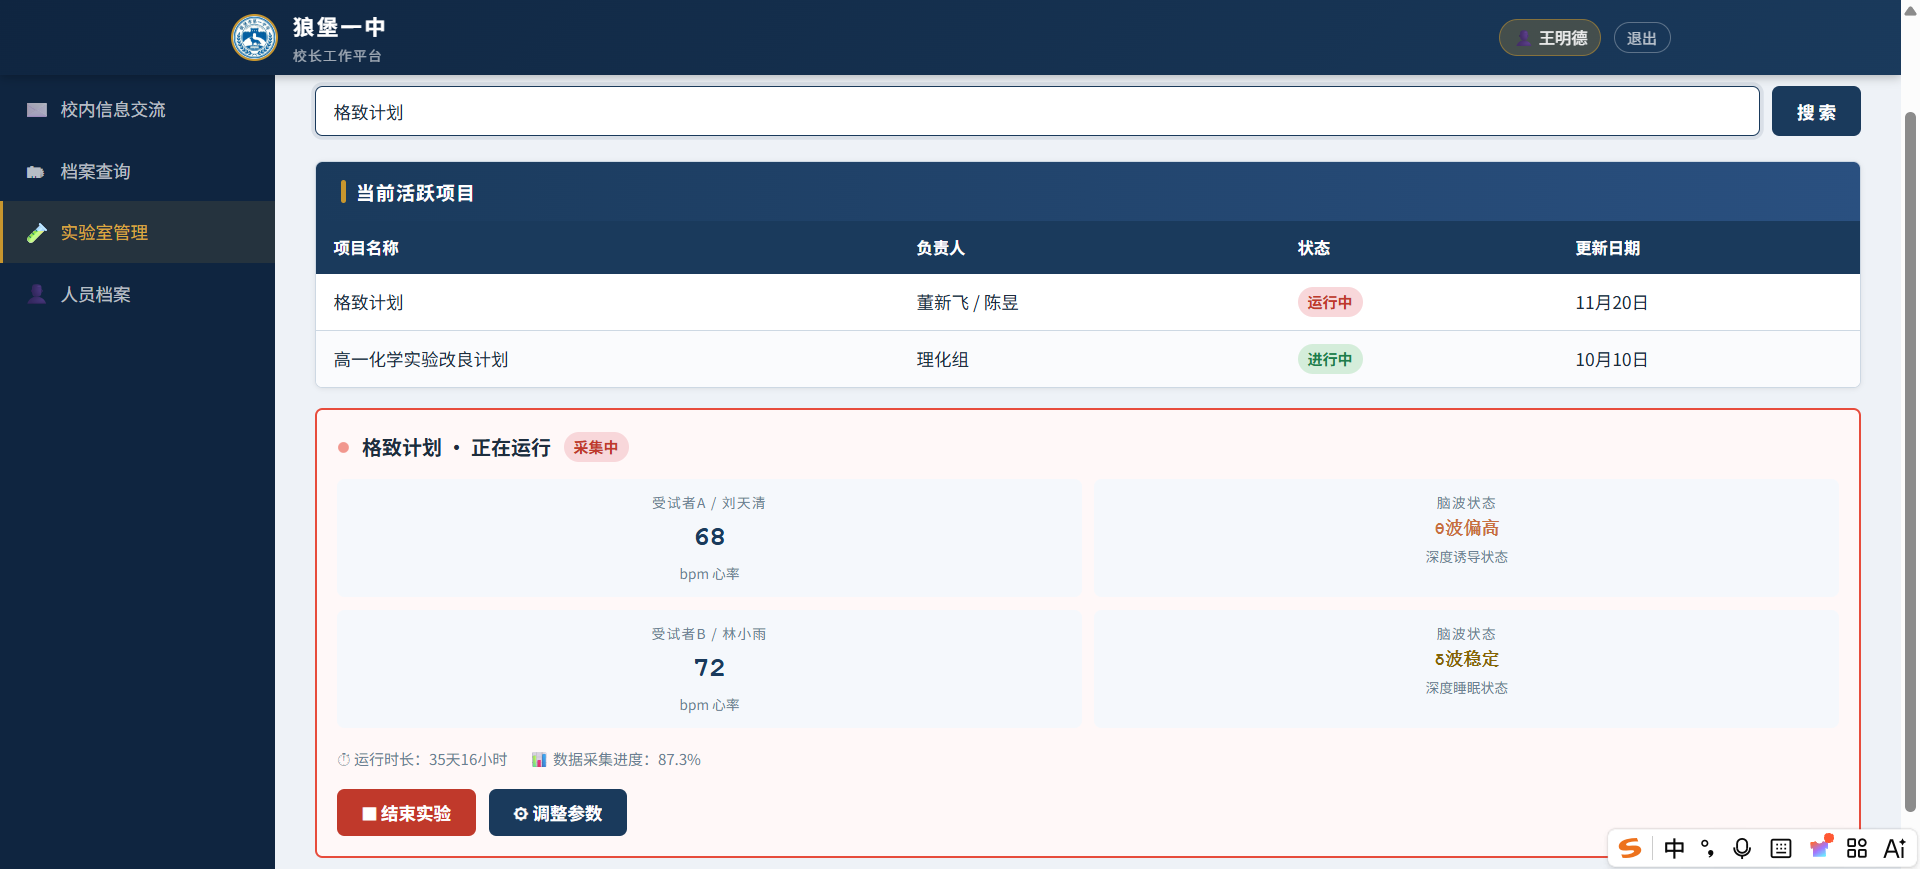
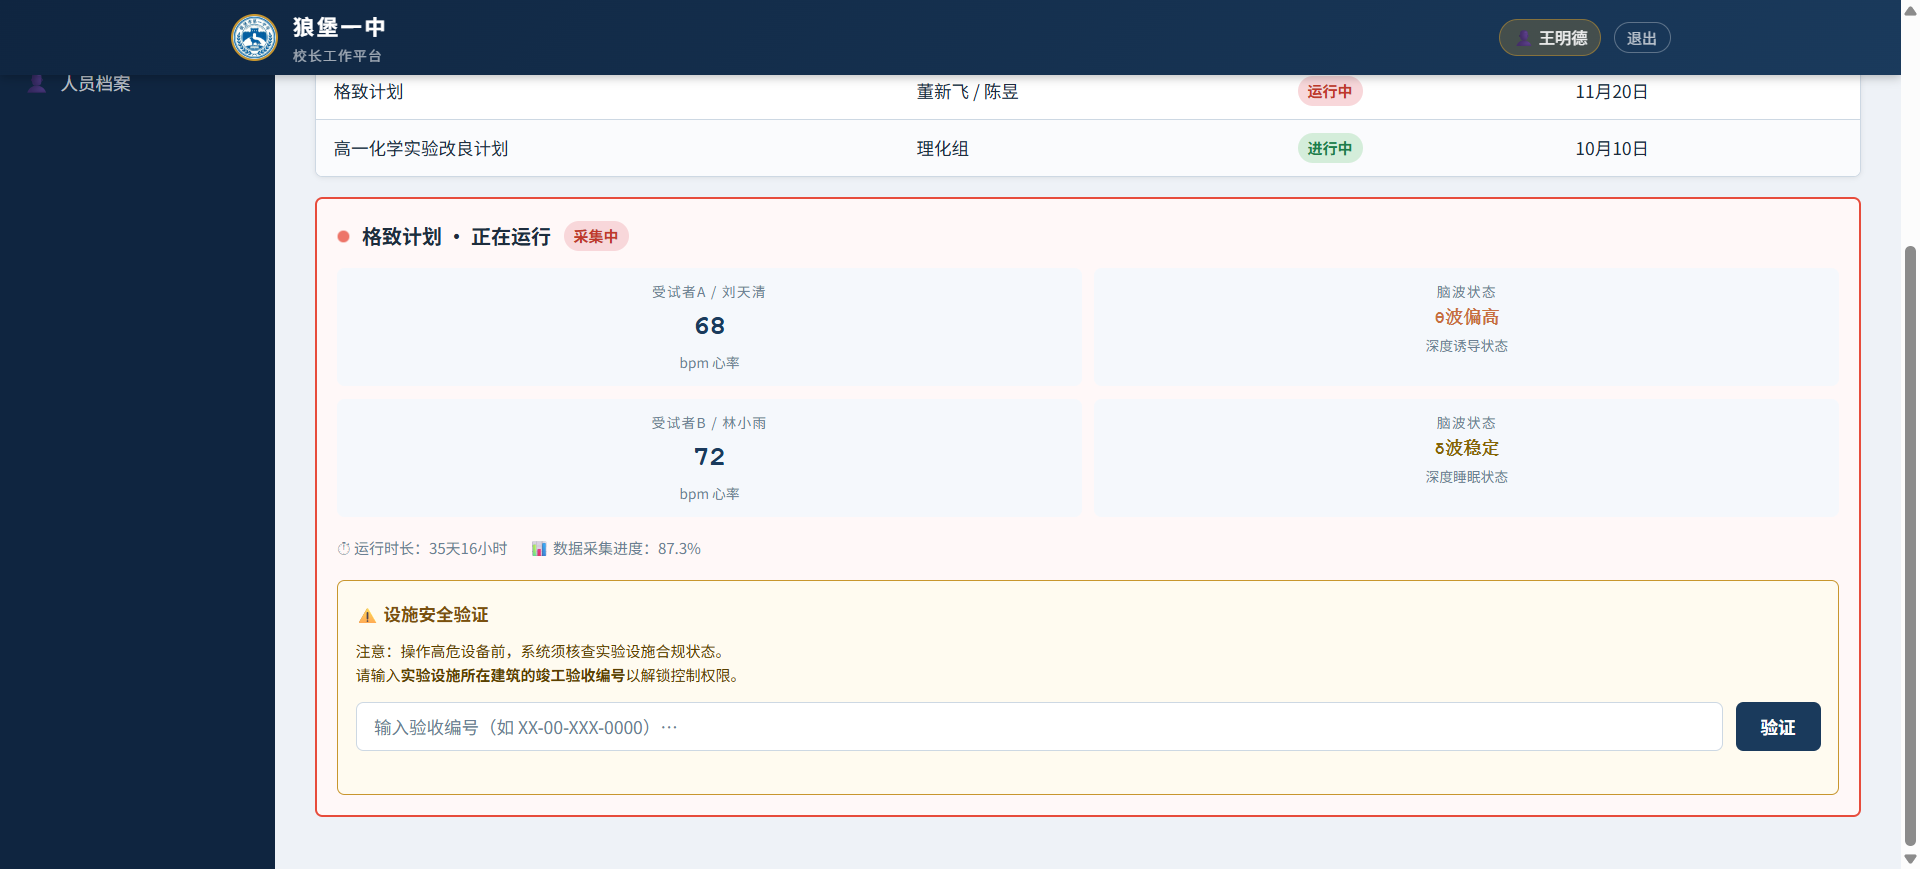
更改编号位置

diff --git a/js/library.js b/js/library.js
@@ -280,6 +280,7 @@ const ARCHIVE_DB = {
     year: "1997年",
     type: "建筑图纸 / 工程档案",
     condition: "纸质原件已数字化扫描，原件存于B1档案室",
+    acceptanceNo: "LB-97-EXP-0312",
     note: "本图纸为1997年竣工验收版本，含地面层（1F）及地下层（B1）完整平面布局。1998年后仅有局部设备更新记录，整体结构未变。",
     svg: true
   }
@@ -385,8 +386,6 @@ function ARCHIVE_SVG() {
         <text x="30" y="15" font-size="11" fill="#1a3a5c" font-weight="700">1F 地面层</text>
         <!-- 指北针 -->
         <text x="618" y="14" font-size="10" fill="#888">N↑</text>
-        <!-- 竣工验收编号 -->
-        <text x="618" y="26" font-size="9" fill="#888" text-anchor="end" font-family="monospace">竣工验收编号: LB-97-EXP-0312</text>
 
         <!-- 门（主入口） -->
         <rect x="295" y="218" width="50" height="4" fill="#555" rx="1"/>
@@ -471,8 +470,6 @@ function ARCHIVE_SVG() {
         <!-- 楼层标注 -->
         <text x="30" y="12" font-size="11" fill="#1a3a5c" font-weight="700">B1 地下层</text>
         <text x="618" y="12" font-size="10" fill="#888">N↑</text>
-        <!-- 竣工验收编号 -->
-        <text x="618" y="24" font-size="9" fill="#888" text-anchor="end" font-family="monospace">竣工验收编号: LB-97-EXP-0312</text>
 
         <!-- 红色标注线：楼梯B → B203 路径 -->
         <path d="M 165 205 L 165 210 L 300 210 L 300 195" fill="none" stroke="#c0392b" stroke-width="1.5" stroke-dasharray="6 3" opacity="0.6"/>
@@ -525,6 +522,7 @@ document.addEventListener("DOMContentLoaded", () => {
             <tr><th>归档年份</th><td>${a.year}</td></tr>
             <tr><th>档案类型</th><td>${a.type}</td></tr>
             <tr><th>存档状态</th><td>${a.condition}</td></tr>
+            ${a.acceptanceNo ? `<tr><th>验收编号</th><td class="text-mono" style="font-weight:600;color:#c0392b">${a.acceptanceNo}</td></tr>` : ""}
             <tr><th>说明</th><td style="font-size:13px;color:#555">${a.note}</td></tr>
           </table>
         </div>

diff --git a/js/principal.js b/js/principal.js
@@ -47,7 +47,7 @@ const PRINCIPAL_ARCHIVE_CONTENT = `
 
     <h3 style="color:#1a3a5c;margin:20px 0 8px">二、控制台操作说明</h3>
     <p style="font-size:13px;color:#6b7f93;line-height:1.9">
-      前往「实验室管理」→ 搜索「格致」→ 点击「调整参数」→ 输入参数 → 确认执行。<br>
+      前往「实验室管理」→ 搜索「格致」→ 输入「旧实验楼竣工验收编号」→  点击「调整参数」→ 输入参数 → 确认执行。<br>
       或点击「结束实验」强制中止（不推荐，后果不可逆）。
     </p>
   </div>

diff --git a/docs/攻略/详细攻略.md b/docs/攻略/详细攻略.md
@@ -144,7 +144,7 @@
 
 进入校长界面后，陈昱给校长的加密邮件提到：有一套隐藏的【参数三】，是唯一能在关闭设备时，将记忆数据安全“写回”大脑，使受试者自然苏醒的方法。
 进入【实验室控制】界面后，搜索「格致计划」。此时系统会弹出设施合规验证，要求输入实验设施所在建筑的竣工验收编号。
-前往**图书馆的「馆藏档案」**，检索旧实验楼图纸编号 `LBYZ-1997-B`（之前在《建筑结构安全》的书籍借阅记录中可以找到该提示）。在打开的建筑图纸右上角（指北针下方），可以看到竣工验收编号为 **`LB-97-EXP-0312`**。
+前往**图书馆的「馆藏档案」**，检索旧实验楼图纸编号 `LBYZ-1997-B`（之前在《建筑结构安全》的书籍借阅记录中可以找到该提示）。在打开的档案基本信息中，可以看到验收编号为 **`LB-97-EXP-0312`**。
 将编号输入到合规验证中，即可解锁操作权限。然后点击【调整参数】，在此输入决定两人命运的数值。
 
 ## 七、三种决断（结局列表）
@@ -241,7 +241,7 @@
 登录 wmd_principal（Gezhi@2023!）
   → 陈昱写给校长的加密邮件：揭示参数三（唯一让受试者自然苏醒的方式）
   → 在实验室系统搜索「格致计划」，触发设施合规验证
-  → 去图书馆检索馆藏档案 LBYZ-1997-B，查看旧实验楼建筑图纸，在图纸右上角获得竣工验收编号 LB-97-EXP-0312
+  → 去图书馆检索馆藏档案 LBYZ-1997-B，在档案基本信息中获得竣工验收编号 LB-97-EXP-0312
   → 在校长实验室系统输入编号解锁操作按钮：「强制结束实验」「调整参数」
         ↓
         ┌──────────────────────────────────────────────────────┐

diff --git a/docs/攻略/简要攻略.md b/docs/攻略/简要攻略.md
@@ -97,7 +97,7 @@
 
 进入实验室系统，搜索「格致计划」。此时系统会要求你输入一个**实验设施所在建筑的竣工验收编号**才能解锁操作按钮。
 
-> 💡 **怎么找这个编号？** 回想一下你在图书馆查阅书籍留言时（比如那本《建筑结构安全》），是不是看到过某张**建筑图纸档案**的编号？去图书馆系统的「馆藏档案」里查阅这个档案（注意格式最好带上连字符），仔细观察图纸的角落。
+> 💡 **怎么找这个编号？** 回想一下你在图书馆查阅书籍留言时（比如那本《建筑结构安全》），是不是看到过某张**建筑图纸档案**的编号？去图书馆系统的「馆藏档案」里查阅这个档案（注意格式最好带上连字符），在档案基本信息中可以找到该编号。
 
 解锁权限后，你会看到两人的状态，以及最终的操作按钮：
 
